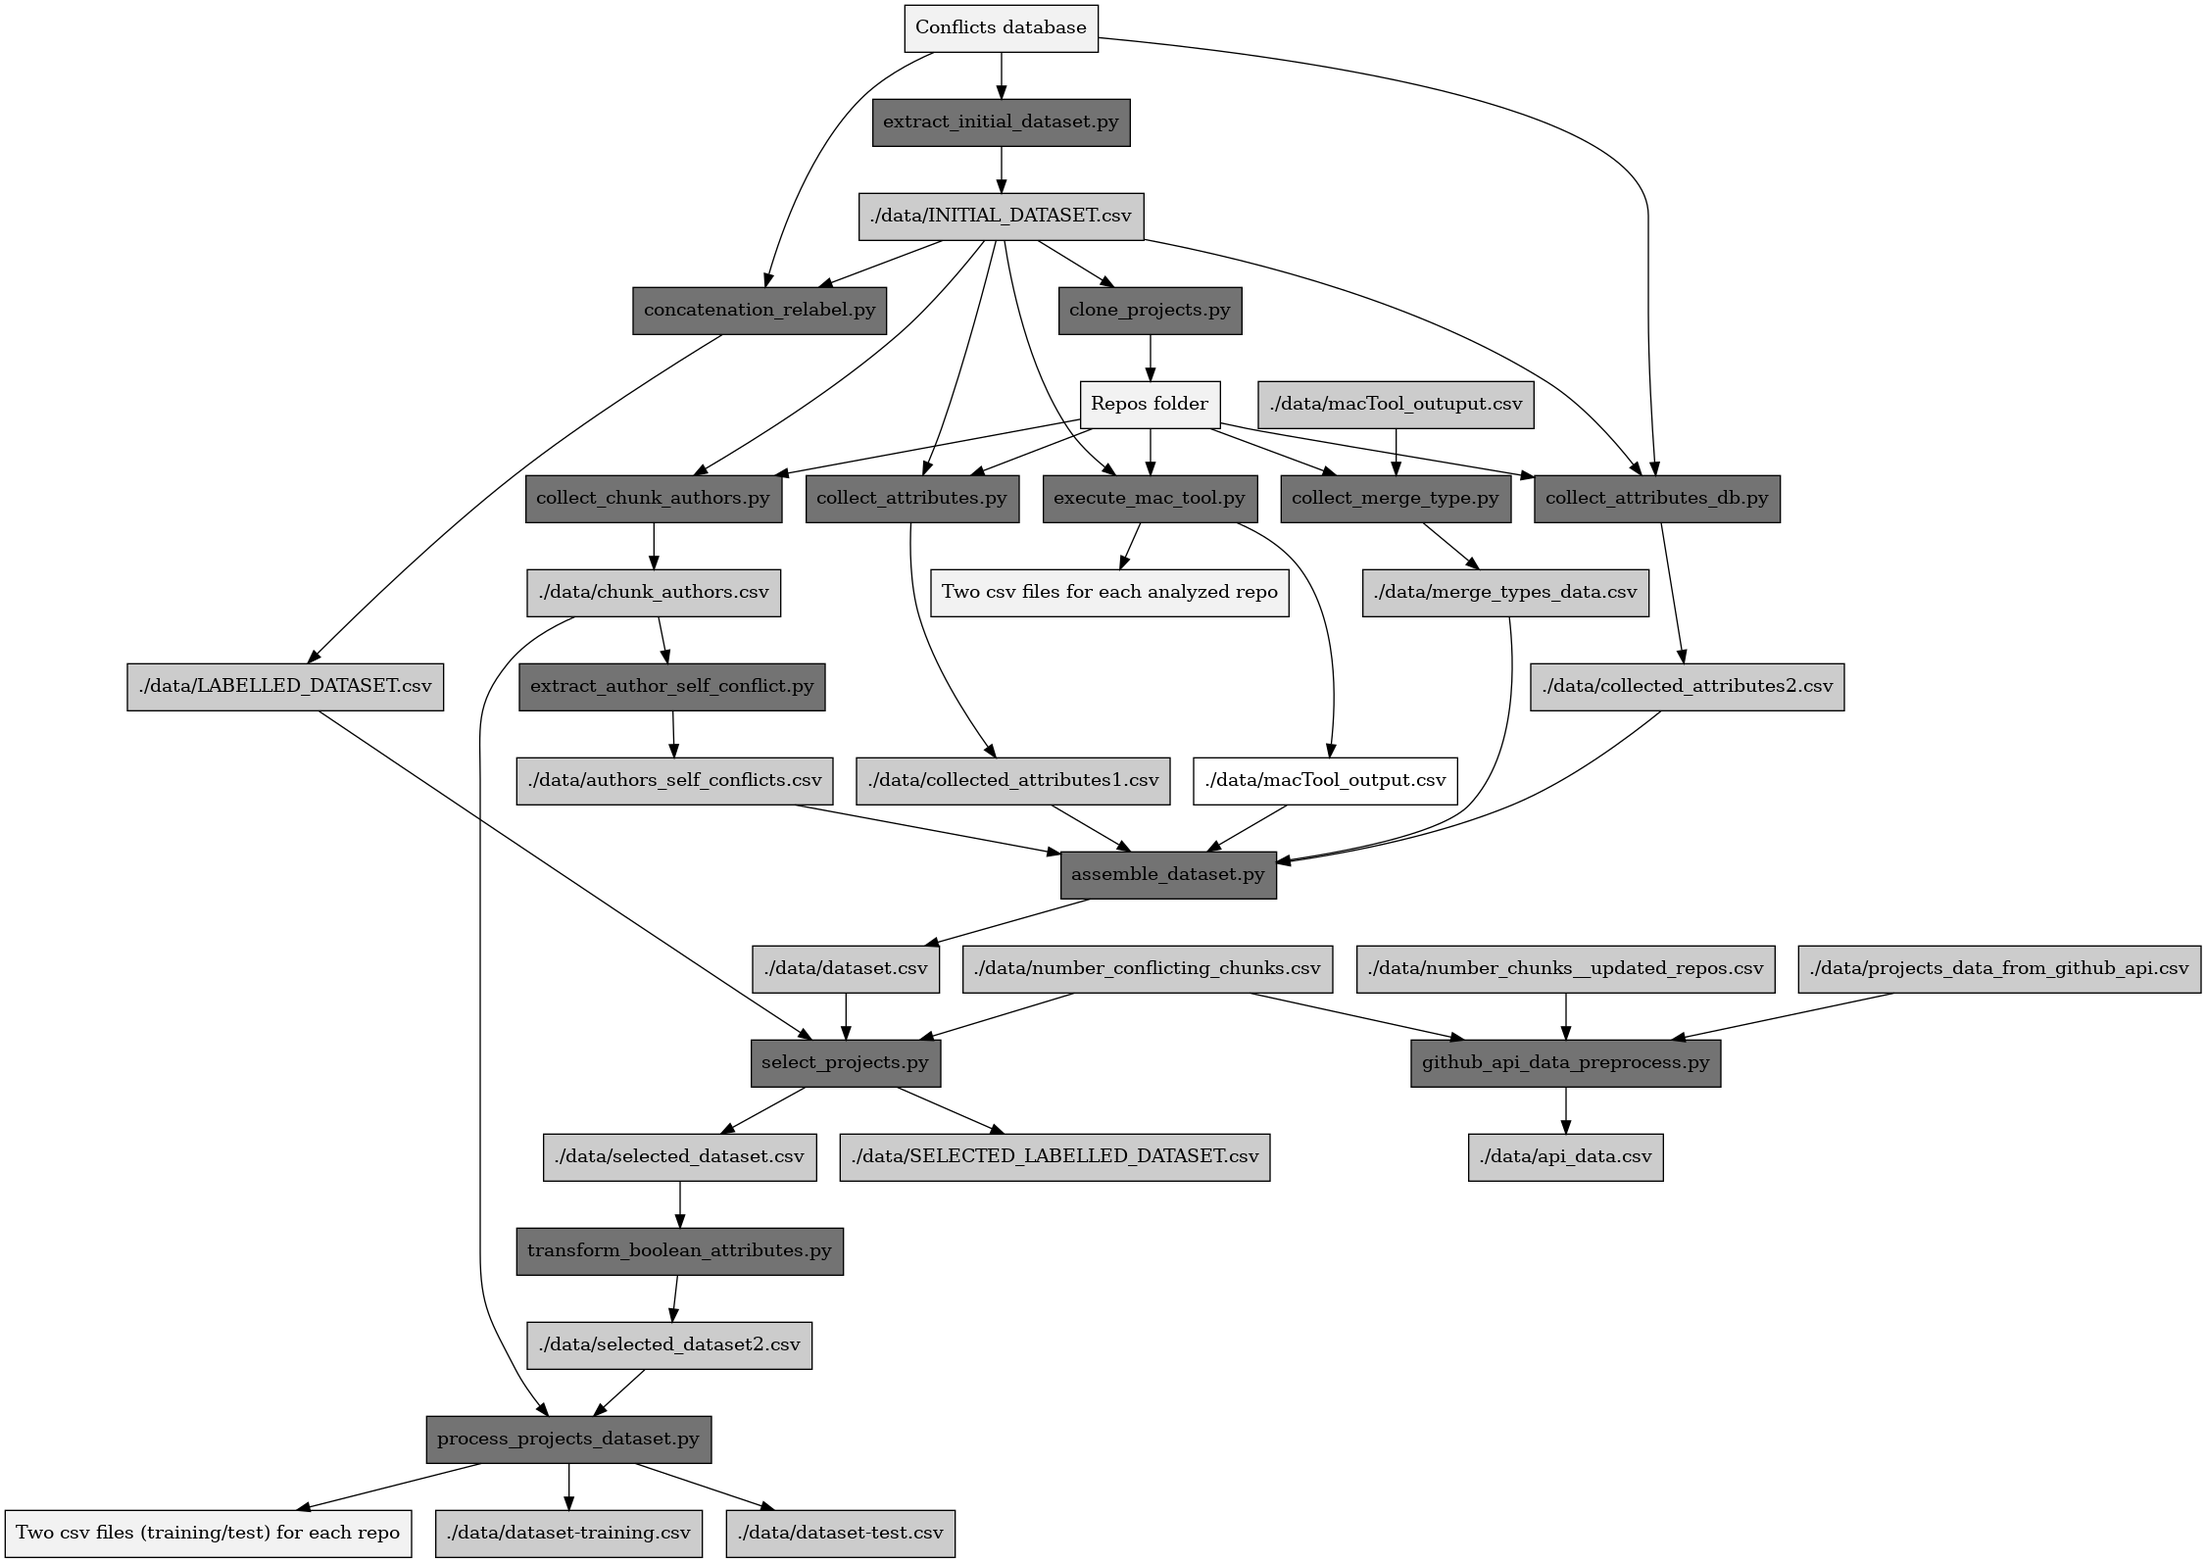
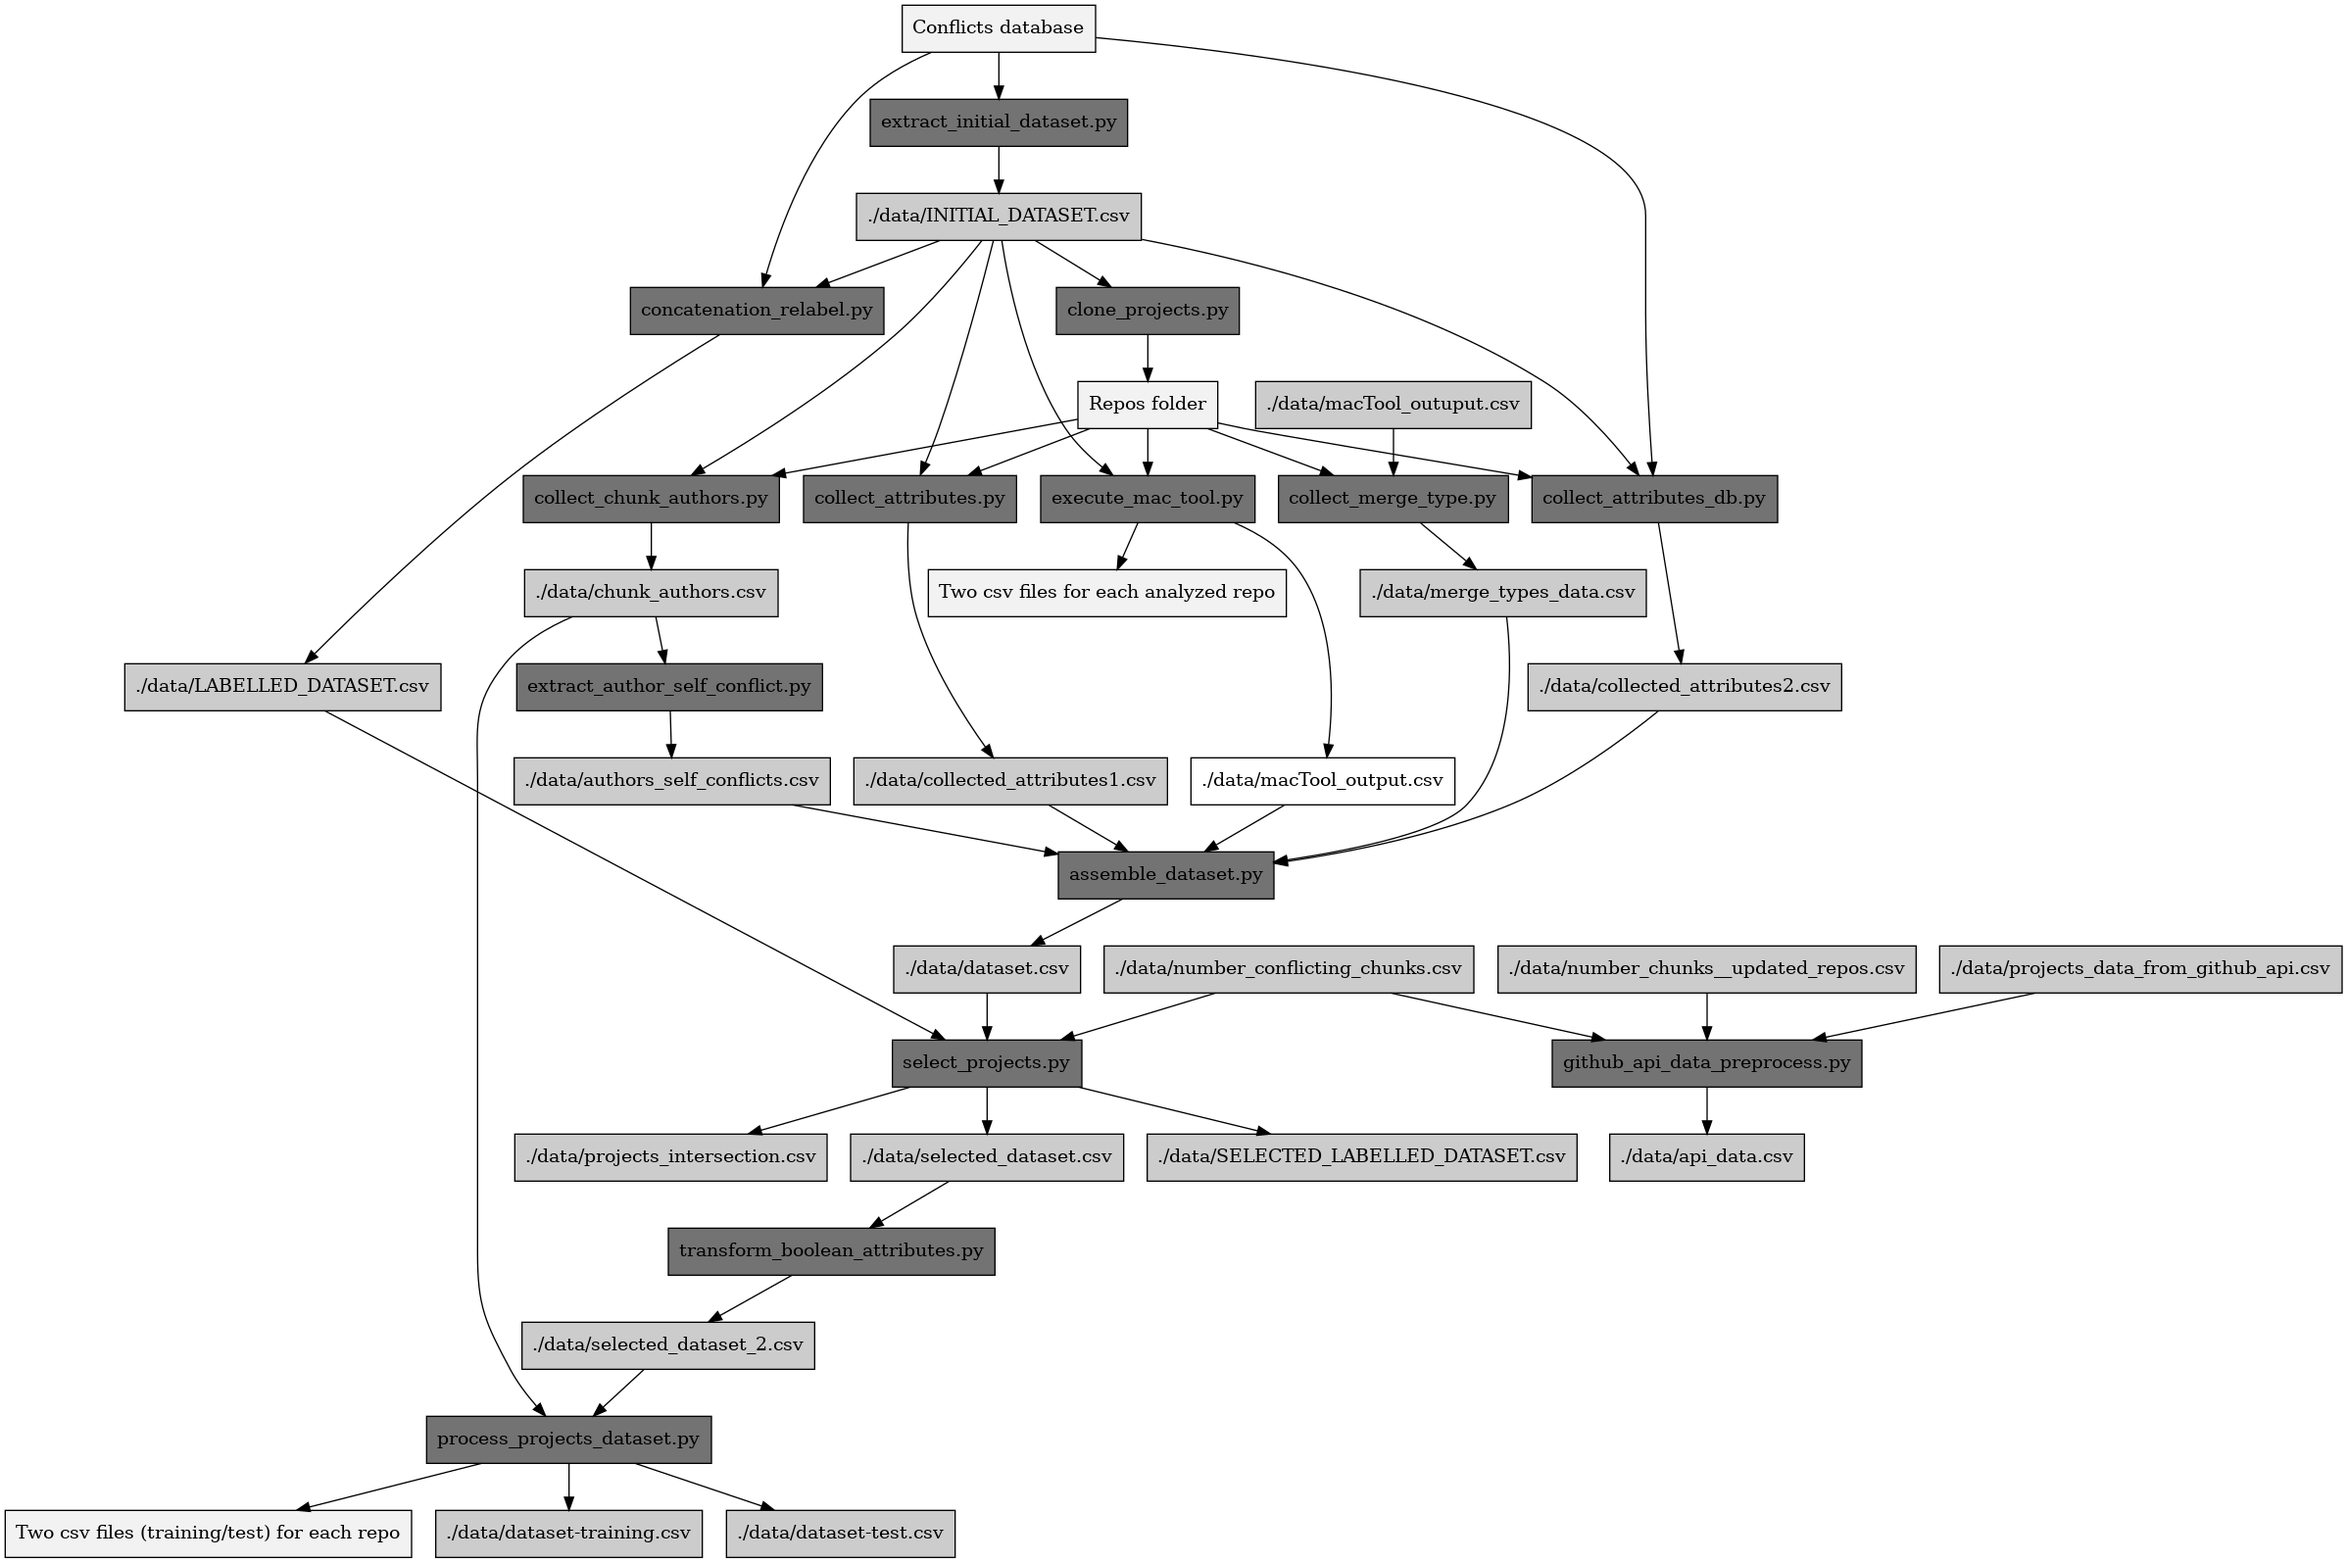
Adds projects_intersection csv to documentation

diff --git a/scripts/draw_scripts_graph.py b/scripts/draw_scripts_graph.py
@@ -16,7 +16,7 @@ digraph mygraph {
     {"./data/INITIAL_DATASET.csv" "Repos folder"} -> "execute_mac_tool.py" -> {"./data/macTool_output.csv" "Two csv files for each analyzed repo"}
     {"./data/macTool_outuput.csv" "Repos folder"} -> "collect_merge_type.py" -> "./data/merge_types_data.csv"
     {"./data/collected_attributes1.csv" "./data/collected_attributes2.csv" "./data/authors_self_conflicts.csv" "./data/merge_types_data.csv" "./data/macTool_output.csv"} -> "assemble_dataset.py" -> "./data/dataset.csv"
-    {"./data/LABELLED_DATASET.csv" "./data/number_conflicting_chunks.csv" "./data/dataset.csv"} -> "select_projects.py" -> {"./data/selected_dataset.csv" "./data/SELECTED_LABELLED_DATASET.csv"}
+    {"./data/LABELLED_DATASET.csv" "./data/number_conflicting_chunks.csv" "./data/dataset.csv"} -> "select_projects.py" -> {"./data/selected_dataset.csv" "./data/SELECTED_LABELLED_DATASET.csv" "./data/projects_intersection.csv"}
     "./data/selected_dataset.csv" -> "transform_boolean_attributes.py" -> "./data/selected_dataset_2.csv"
     {"./data/selected_dataset_2.csv" "./data/chunk_authors.csv"} -> "process_projects_dataset.py" -> {"Two csv files (training/test) for each repo" "./data/dataset-training.csv" "./data/dataset-test.csv"}
     {"./data/number_conflicting_chunks.csv" "./data/number_chunks__updated_repos.csv" "./data/projects_data_from_github_api.csv"} -> "github_api_data_preprocess.py" -> "./data/api_data.csv"
@@ -46,6 +46,7 @@ digraph mygraph {
     "./data/number_conflicting_chunks.csv" [fillcolor=gray80]
     "./data/selected_dataset.csv" [fillcolor=gray80]
     "./data/SELECTED_LABELLED_DATASET.csv" [fillcolor=gray80]
+    "./data/projects_intersection.csv" [fillcolor=gray80]
     "./data/selected_dataset_2.csv" [fillcolor=gray80]
     "./data/dataset-training.csv" [fillcolor=gray80]
     "./data/dataset-test.csv" [fillcolor=gray80]
